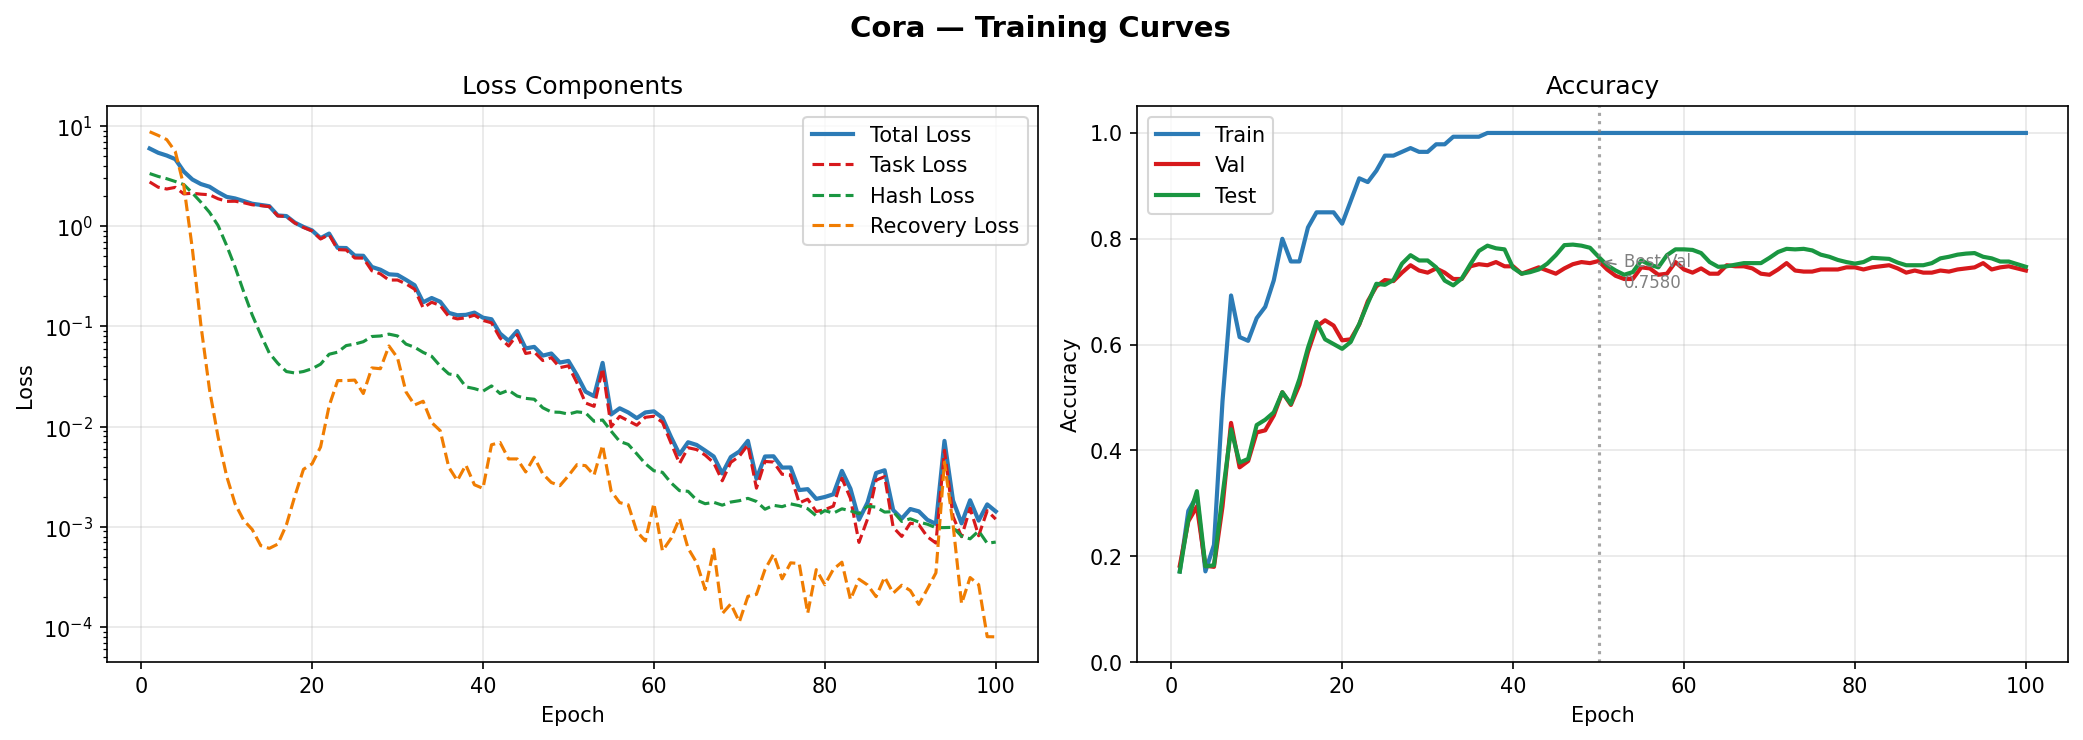
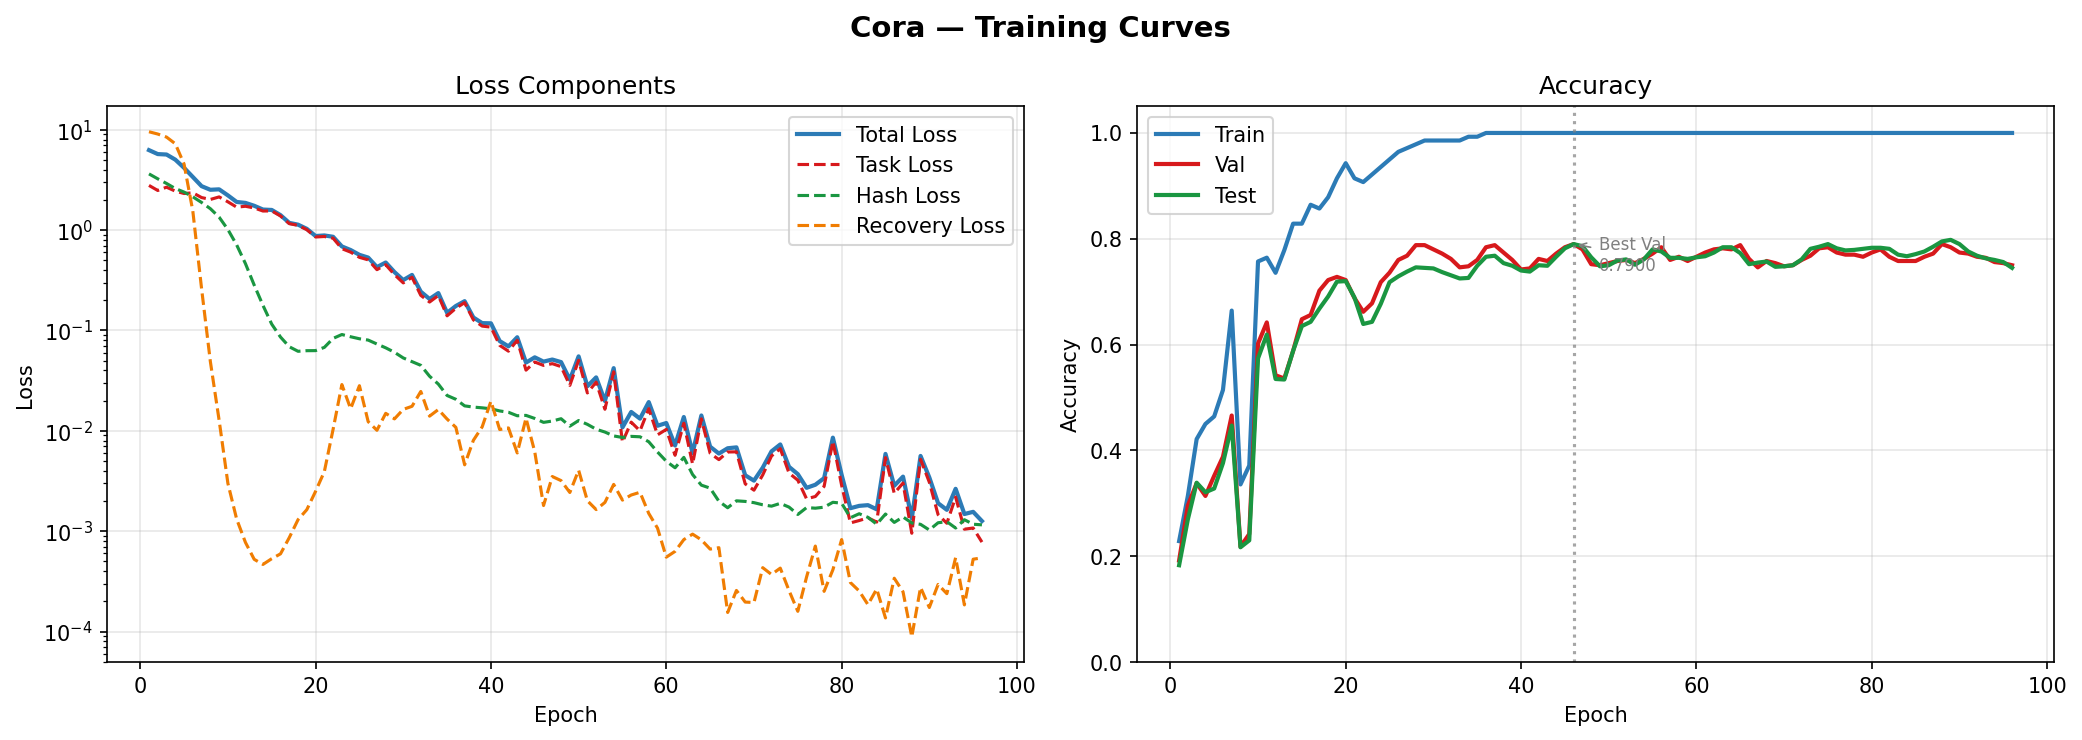
added seed

diff --git a/src/train.py b/src/train.py
@@ -14,6 +14,8 @@ import time
 import os
 import torch
 import torch.nn.functional as F
+import random
+import numpy as np
 
 from .data_loader              import load_dataset
 from .model.transformer_model  import SparseGraphTransformer
@@ -23,6 +25,18 @@ from .losses.reconstruction_loss import recovery_loss
 from .utils import log, plot_training
 
 # ─────────────────────────────────────────────────────────────────────────────
+def set_seed(seed=42):
+    # 1. Set basic seeds
+    random.seed(seed)
+    np.random.seed(seed)
+    torch.manual_seed(seed)
+    torch.cuda.manual_seed(seed)
+    torch.cuda.manual_seed_all(seed)  # For multi-GPU
+    os.environ['PYTHONHASHSEED'] = str(seed)
+    
+    # 2. Lock down CuDNN
+    torch.backends.cudnn.deterministic = True
+    torch.backends.cudnn.benchmark = False
 
 def train_epoch(model, data, optimizer, config, device):
     model.train()
@@ -222,4 +236,7 @@ if __name__ == "__main__":
                         help="Dataset: Cora | CiteSeer | PubMed | ogbn-arxiv")
     parser.add_argument("--data-path",    type=str, default="./data")
     args = parser.parse_args()
+
+    # Setting seed for reproducibility
+    set_seed(42)
     main(args)
